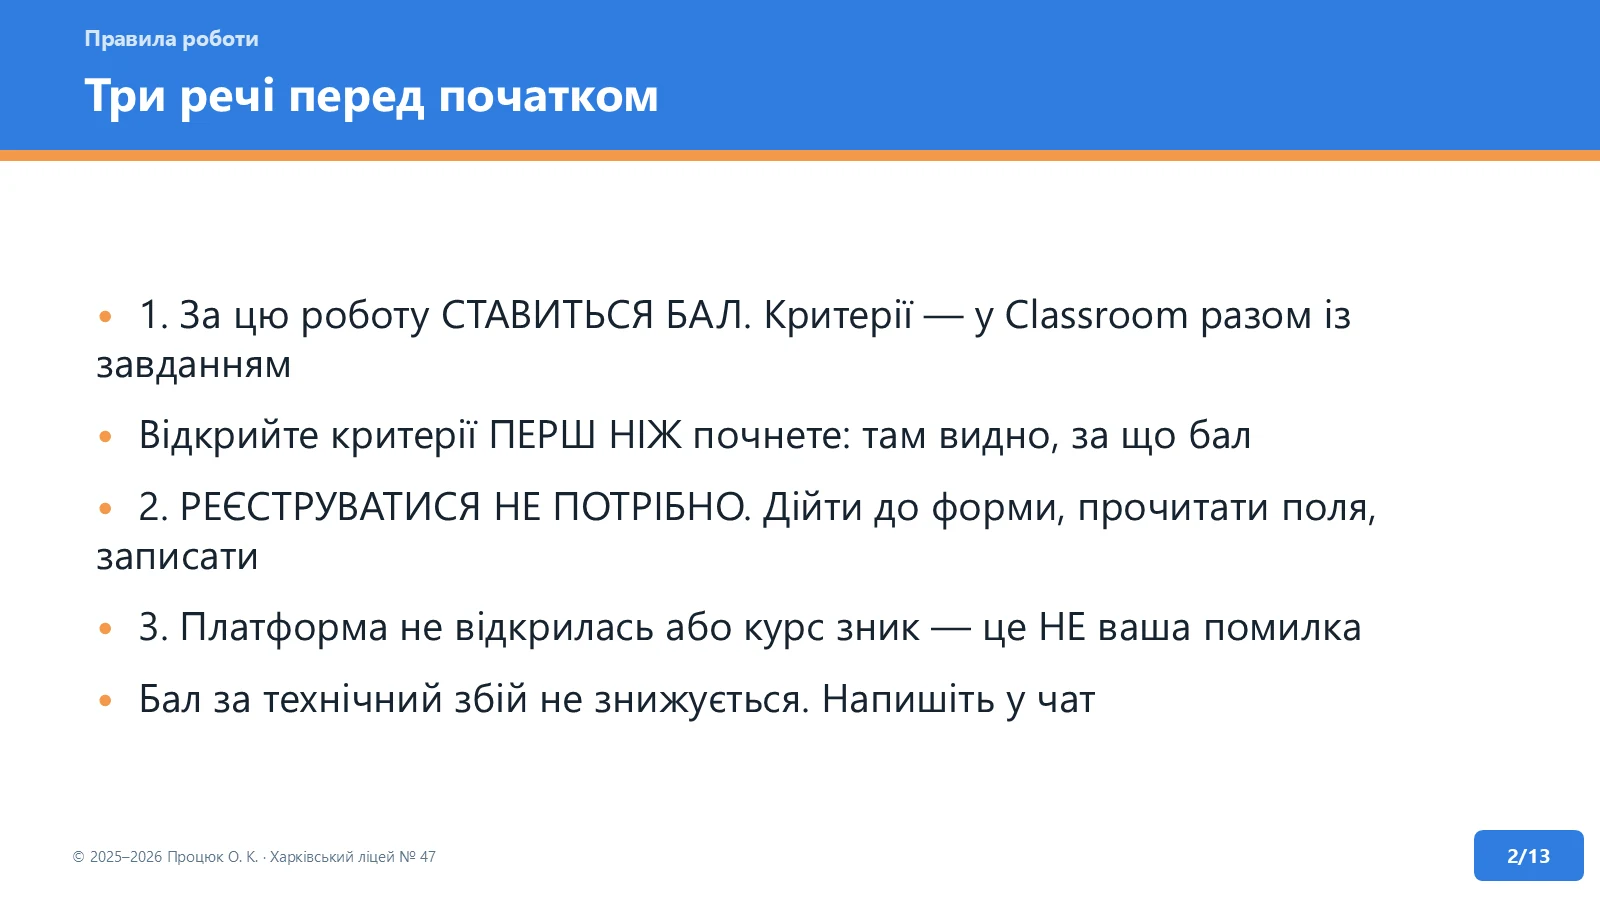
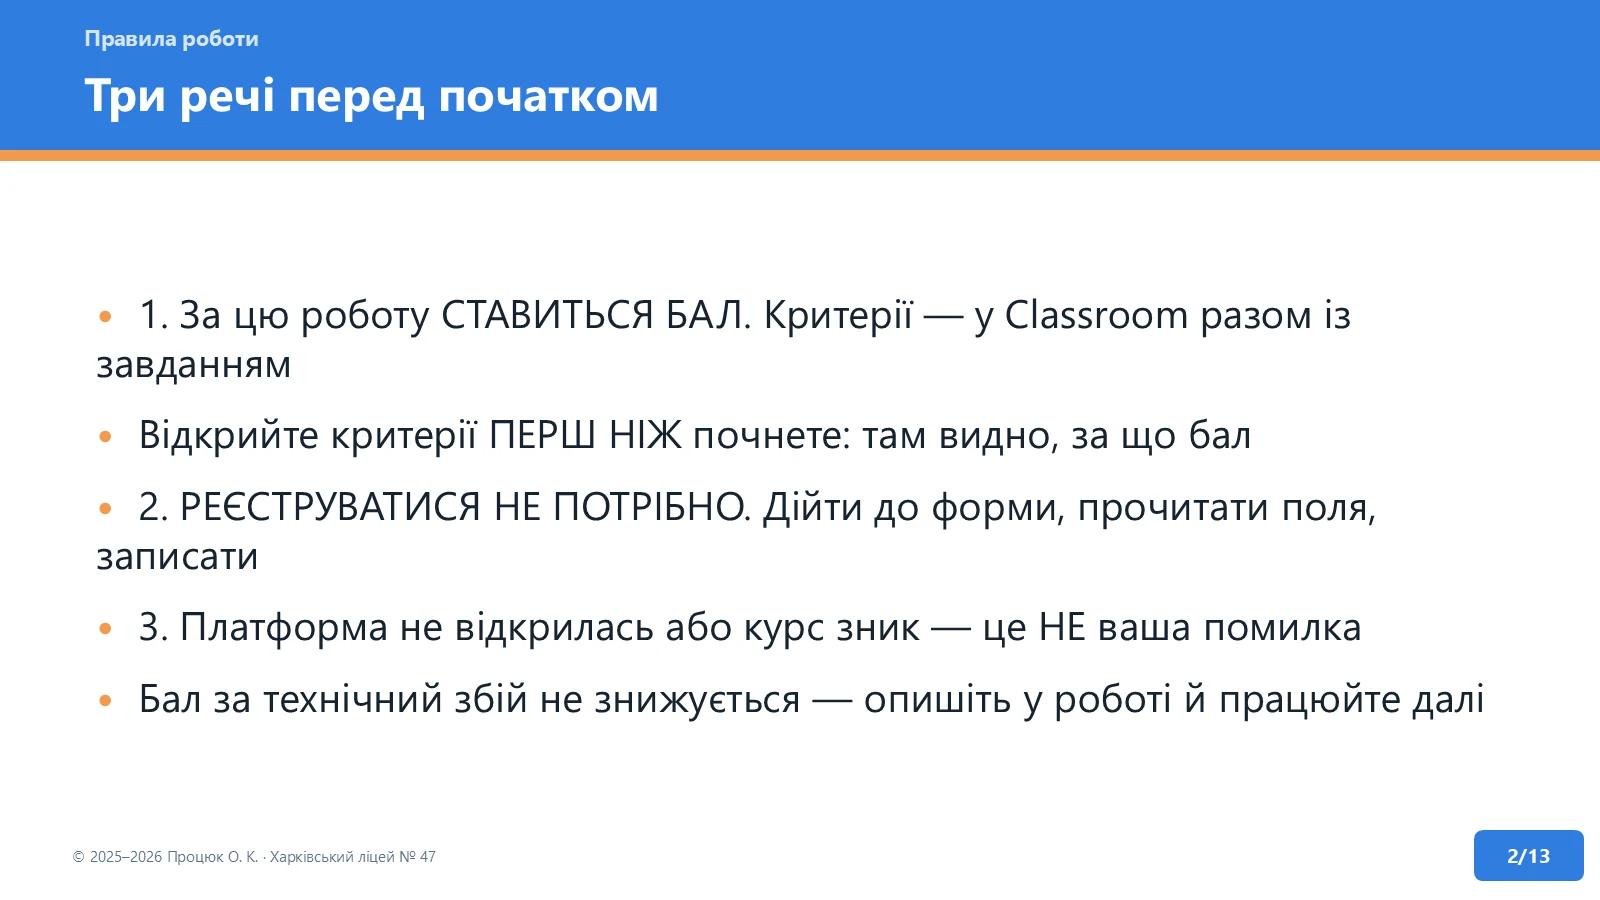
10-А, ПР № 1: технічний збій — учень діє сам, без очікування вчителя
Учитель знайшов нестиковку 15.09.2026: слайд казав «Напишіть у чат»,
репліка до того самого слайда — «напишіть мені в коментар», пам'ятка —
«повідом вчителя». Три різні канали на один випадок, і всі ждуть учителя,
хоч роботу можна робити вдома, коли чату вже немає.

Єдина формула: «опишіть у роботі й працюйте далі» — там, де учень має
самостійний вихід (друга платформа, інший курс). Учитель потрібен лише
для перенесення строку, і там названо канал: «напишіть у Classroom».

- слайд 2: «Напишіть у чат» → «опишіть у роботі й працюйте далі»
- слайд 12: «напишіть» → «напишіть у Classroom» (обидва випадки)
- пам'ятка й tools/online-learning-10.html: «повідом вчителя» → що робити самому

Changed region(s): [[0.5, 0.7467, 0.9375, 0.8089]]

diff --git a/tools/online-learning-10.html b/tools/online-learning-10.html
@@ -1067,7 +1067,7 @@ html[data-theme="dark"]>body{background:radial-gradient(ellipse at 5% 0%,#281b43
 <details><summary>Тривалість і розклад · Чи вистачить часу?</summary><p>Розрізняй тривалість у тижнях, навантаження в годинах та час зустрічей. Записи у власному темпі й заняття за розкладом — різні умови.</p></details>
 <details><summary>Викладачі · Хто пояснює матеріал?</summary><p>Знайди імена, досвід і організацію авторів. Записуй те, що вказано на сторінці, без припущень.</p></details>
 <details><summary>Сертифікат і вартість · Які умови?</summary><p>Перевір окремо доступ до навчання й отримання сертифіката. Не роби висновок, що обидва безкоштовні, лише за словом «безкоштовно» в заголовку.</p></details>
-<details><summary>Інформації немає · Що записати?</summary><p>«На сторінці курсу не вказано» — точніше за здогад. Додай посилання на сторінку. Якщо сайт не відкривається, повідом вчителя.</p></details>
+<details><summary>Інформації немає · Що записати?</summary><p>«На сторінці курсу не вказано» — точніше за здогад. Додай посилання на сторінку. Якщо сайт не відкривається — так і напиши в роботі: «сторінка не відкрилась». Бал за це не знижується, і чекати нікого не треба: роби цю частину на другій платформі.</p></details>
 <div class="case"><strong>Перевір себе</strong><p>На сторінці написано «4 тижні». Чи означає це, що заняття відбуваються щосуботи?</p><div class="viz-controls"><button class="btn" type="button" data-check="schedule-yes">Так</button><button class="btn" type="button" data-check="schedule-no">Ні, потрібен розклад</button></div><div class="feedback" id="lg-schedule" hidden aria-live="polite"></div></div>
 </section>
 <section class="page" data-panel="1" hidden>
